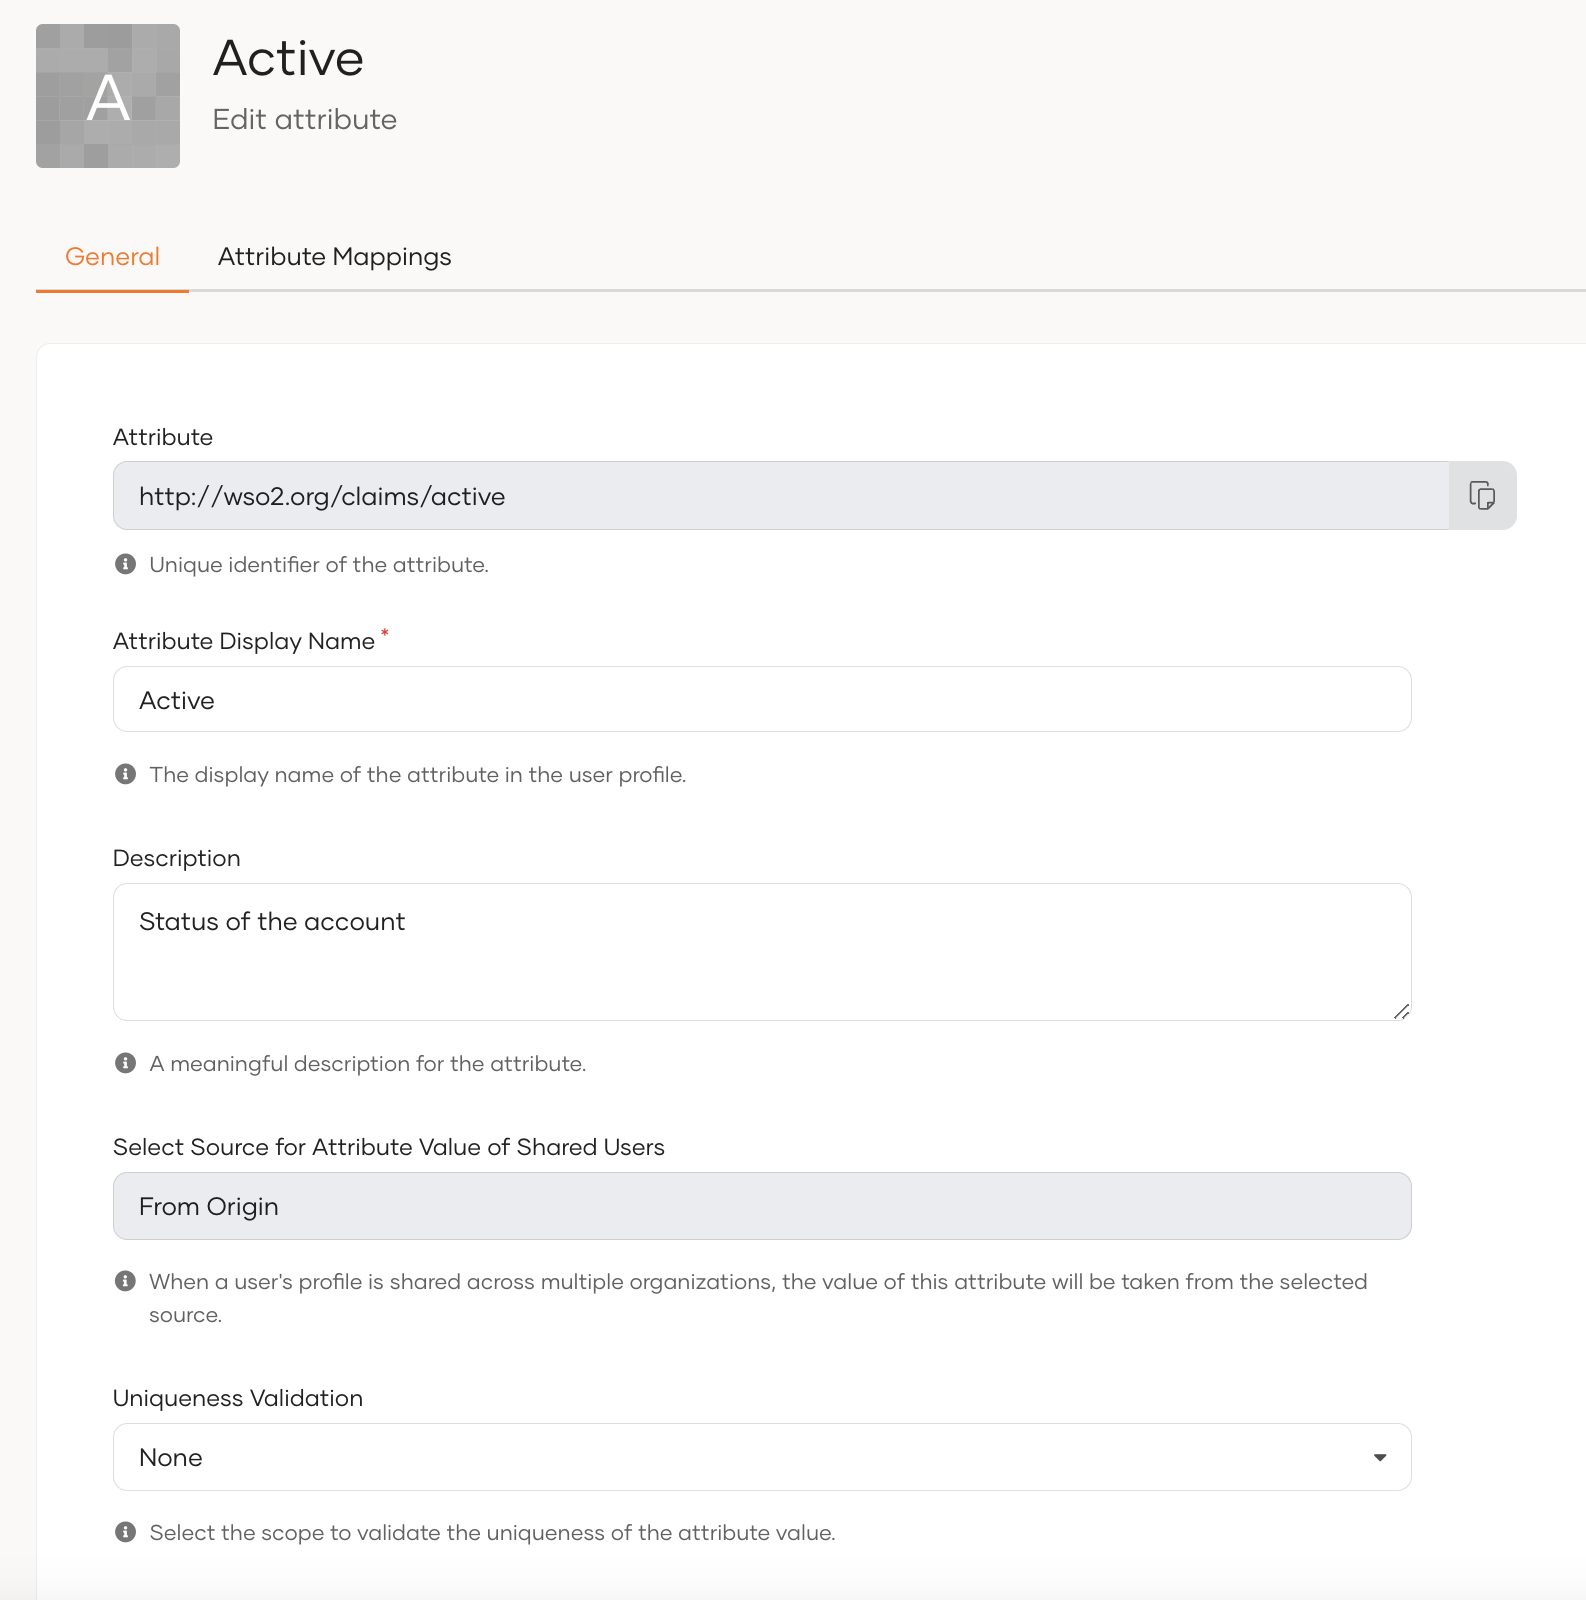
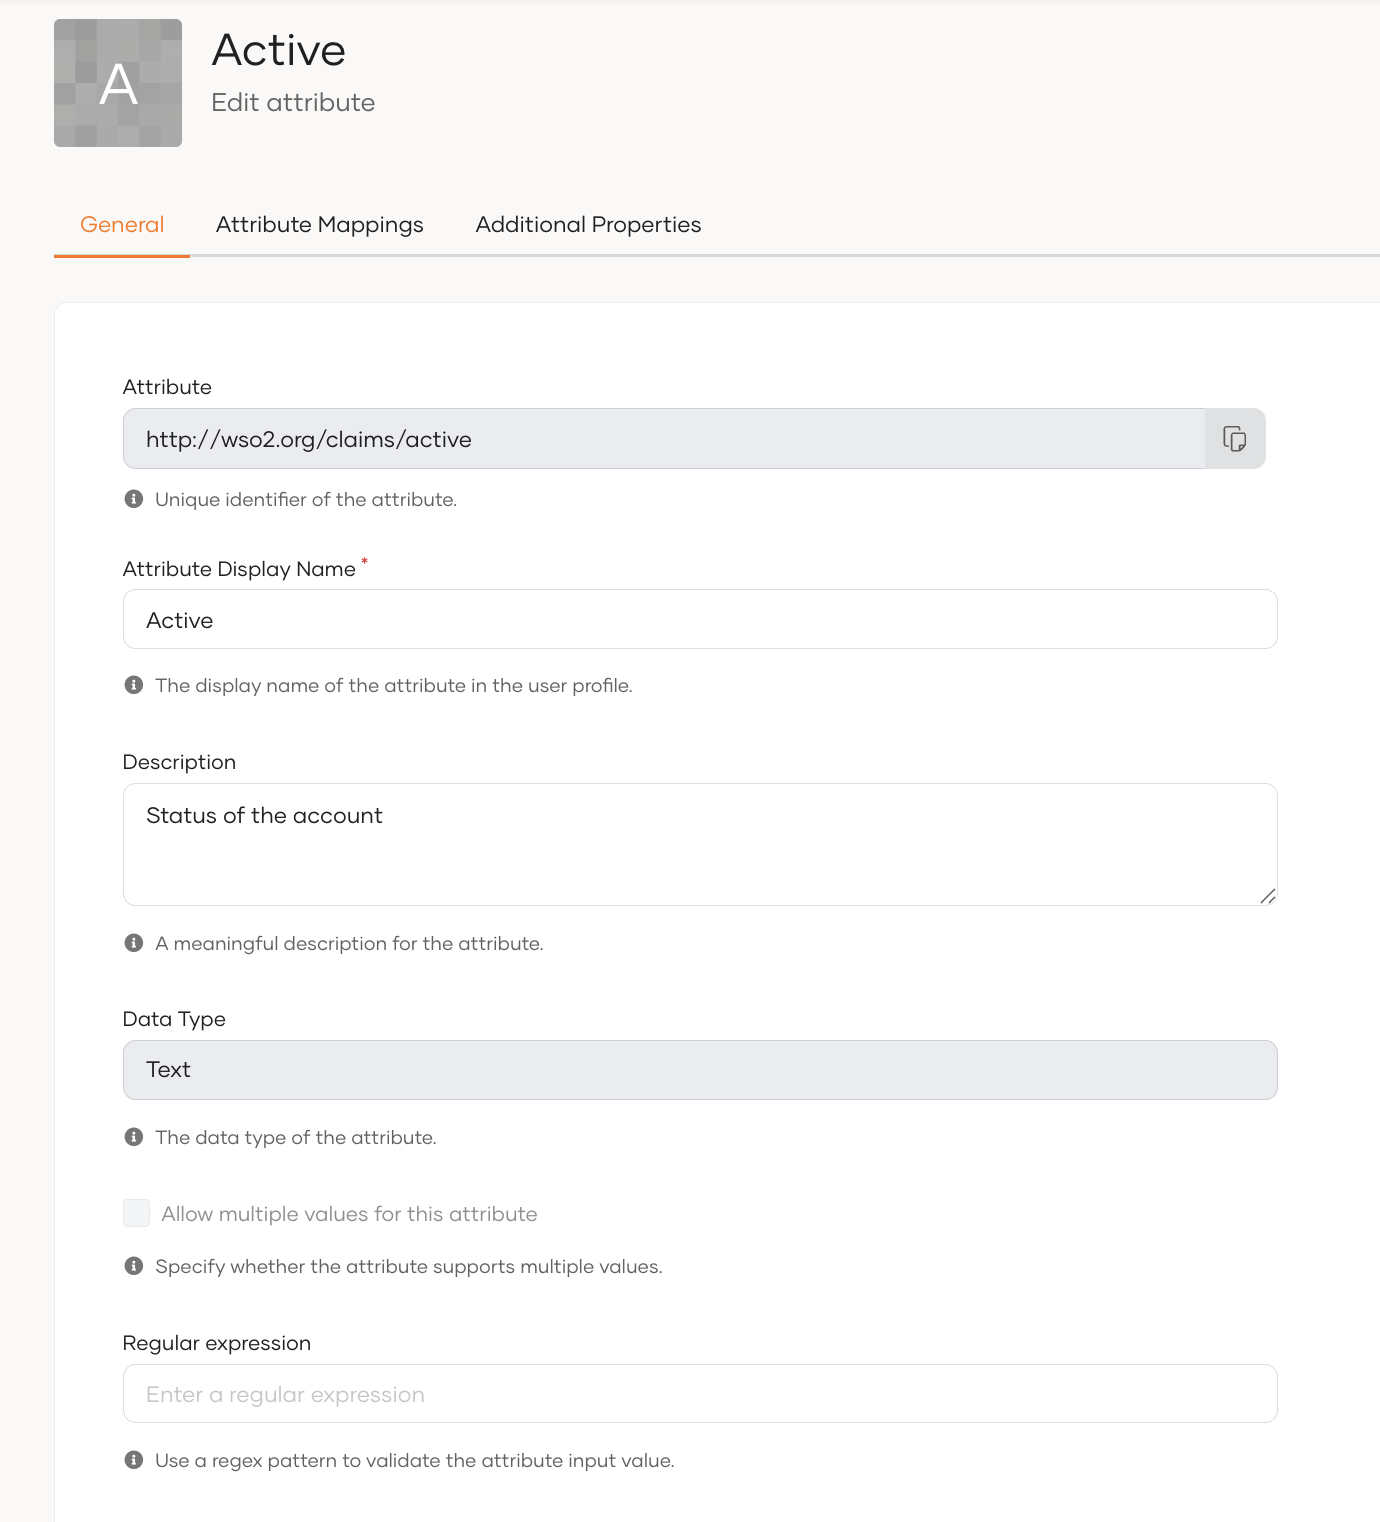
Add documentation for the data type support

diff --git a/en/includes/guides/users/attributes/manage-attributes.md b/en/includes/guides/users/attributes/manage-attributes.md
@@ -16,7 +16,9 @@ To view attributes available for your organization:
 
     ![Attributes]({{base_path}}/assets/img/guides/organization/attributes/local-attributes.png){: width="600" style="display: block; margin: 0; border: 0.3px solid lightgrey;"}
 
+
     This page displays all the attributes available in your organization.
+
 
     ![View attributes]({{base_path}}/assets/img/guides/organization/attributes/view-attributes.png){: width="600" style="display: block; margin: 0; border: 0.3px solid lightgrey;"}
 
@@ -53,8 +55,6 @@ Apart from the default attributes, you may define your own custom attributes by 
 
 4. Click **Finish**.
 
-{% if is_version != "7.0.0" %}
-
 ## Configure attributes
 
 To configure properties of user attributes:
@@ -63,10 +63,69 @@ To configure properties of user attributes:
 2. Under **Manage Attributes**, click **Attributes** to view the list of all attributes.
 3. Click **Edit** for the attribute you want to update.
 
+{% if product_name != "WSO2 Identity Server" or is_version >= "7.2.0" %}
+
     ![Edit attributes]({{base_path}}/assets/img/guides/organization/attributes/edit-attributes-general.png){: width="600" style="display: block; margin: 0; border: 0.3px solid lightgrey;"}
+
+{% else %}
+
+    ![Edit attributes]({{base_path}}/assets/img/guides/organization/attributes/edit-attributes-general.png){: width="600" style="display: block; margin: 0; border: 0.3px solid lightgrey;"}
+
+{% endif %}
 
     !!! note
         The **Attribute** field specifies the unique identifier of the attribute. It always starts with `http://wso2.org/claims`. This cannot be edited.
+
+{% if product_name != "WSO2 Identity Server" or is_version >= "7.2.0" %}
+
+4. In the **General** tab, update the following values.
+
+    <table>
+       <tbody>
+            <tr>
+                <td><b>Attribute Display Name</b></td>
+                <td>Update the display name of the attribute that will show in user profiles.</td>
+            </tr>
+            <tr>
+                <td><b>Description</b></td>
+                <td>Update the description for the attribute.</td>
+            </tr>
+            <tr>
+                <td><b>Data Type</b></td>
+                <td>Refers to the kind of value it holds, such as a string, boolean or date-time.</td>
+            </tr>
+            <tr>
+                <td><b>Multi Valued</b></td>
+                <td>Specify whether the attribute supports multiple values.</td>
+            </tr>
+            <tr>
+                <td><b>Regular expression</b></td>
+                <td>The attribute value will be validated against the regex pattern specified here.</td>
+            </tr>
+            <tr>
+                <td><b>Select Source for Attribute Value of Shared Users</b></td>
+                <td>When a user's profile is shared across multiple organizations, the value of this attribute will be taken from the selected source.</br>
+                <ul>
+                    <li><b>From Origin:</b> The attribute  value is inherited from the original organization which manages the user's profile.</li>
+                    <li><b>From Shared Profile:</b>  The attribute value is taken from the shared user profile in the respective organization.</li>
+                    <li><b>From First Found in Hierarchy:</b> The attribute value is retrieved from the first organization in the hierarchy that has assigned a non-null value to the attribute. </li>
+                </ul>
+                At the moment, you can only configure this option for custom attributes.
+            </tr>
+            <tr>
+                <td><b>Uniqueness Validation</b></td>
+                <td>Select one of the following scopes to validate attribute uniqueness:
+                    <ul>
+                        <li><b>None:</b> No validation is applied. Users can have duplicate values for the selected attribute.</li>
+                        <li><b>Within User Store:</b> Users within the same user store cannot have duplicate values for the selected attribute. However, users in other user stores may have duplicates.</li>
+                        <li><b>Across User Stores:</b> Attribute values are unique across all user stores preventing duplicates throughout the organization.</li>
+                    </ul>
+                </td>
+            </tr>
+     </tbody>
+    </table>
+
+{% elif is_version == "7.1.0" %}
 
 4. In the **General** tab, update the following values.
 
@@ -107,55 +166,7 @@ To configure properties of user attributes:
      </tbody>
     </table>
 
-5. Under **Attribute Configurations**, use the table to configure how attributes are handled for each entity.
-
-    ![Edit attributes]({{base_path}}/assets/img/guides/organization/attributes/configure-attribute-profiles.png){: width="600" style="display: block; margin: 0; border: 0.3px solid lightgrey;"}
-
-    The table contains the following entities:
-
-    - Administrator Console: User profiles as seen from the administrator's Console.
-    - End-User Profile: User profiles as seen from the users' My Account portal.
-    - Self-Registration: The form presented to users during self-registration.
-
-    For each of these entities, you can configure the following properties:
-
-    <table>
-        <tbody>
-            <tr>
-                <td><b>Display</b></td>
-                <td>If selected, the attribute is displayed in the entity.</td>
-            </tr>
-            <tr>
-                <td><b>Required</b></td>
-                <td>If selected, the entity must contain a value for this attribute.</td>
-            </tr>
-            <tr>
-                <td><b>Read-only</b></td>
-                <td>If selected, the value will be read-only for the entity and cannot be modified.</td>
-        </tr>
-        </tbody>
-    </table>
-
-!!! note
-    Using the attribute configurations, you can also configure which attributes are displayed in the user creation form when
-    [onboarding users]({{base_path}}/guides/users/manage-users/#onboard-a-single-user) in the console.
-
-    To display an attribute in the user creation form, select the **both** **Display** and **Required** checkboxes for the **Administrator Console** entity.
-
 {% else %}
-
-## Configure attributes
-
-To configure properties of user attributes:
-
-1. On the {{ product_name }} Console, go to **User Attributes & Stores** > **Attributes**.
-2. Under **Manage Attributes**, click **Attributes** to view the list of all attributes.
-3. Click **Edit** for the attribute you want to update.
-
-    ![Edit attributes]({{base_path}}/assets/img/guides/organization/attributes/edit-attributes-general.png){: width="600" style="display: block; margin: 0; border: 0.3px solid lightgrey;"}
-
-    !!! note
-        The **Attribute** field specifies the unique identifier of the attribute. It always starts with `http://wso2.org/claims`. This cannot be edited.
 
 4. In the **General** tab, update the following values.
 
@@ -187,15 +198,114 @@ To configure properties of user attributes:
             </tr>
      </tbody>
     </table>
+
 {% endif %}
 
-5. Go to the **Attribute Mappings** tab and enter the attribute from each user store that you need to map.
+{% if product_name != "WSO2 Identity Server" or is_version >= "7.2.0" %}
+
+5. Attribute Data Types.
+
+    An attribute can be of one of the following data types:
+
+    - **Text** A plain string value.
+    - **Options** A pre-defined list of selectable values.
+    - **Integer** Whole numbers (for example `1`, `42`, `-7`).
+    - **Decimal** Numbers that include decimals (for example `3.14`, `-0.5`).
+    - **Boolean** A true or false value.
+    - **DateTime** A date and time value.
+    - **Object** A structured object that can include multiple sub-attributes.
+
+    #### Options Data Type
+
+    The **Options** data type allows you to define selectable values for an attribute using Label–Value pairs, where:
+
+    - **Label** is what the user sees in the UI.
+    - **Value** is what's stored internally.
+
+    ![Options for attributes]({{base_path}}/assets/img/guides/organization/attributes/edit-attribute-options.png){: width="600" style="display: block; margin: 0; border: 0.3px solid lightgrey;"}
+
+    #### Object Data Type
+
+    If an attribute needs to hold a structured object, use the **Object** data type and configure its **sub-attributes**.
+
+    ![SubAttributes for attributes]({{base_path}}/assets/img/guides/organization/attributes/edit-addtribute-sub-attributes.png){: width="600" style="display: block; margin: 0; border: 0.3px solid lightgrey;"}
+
+    !!! note
+        The following constraints apply if there is a mapped SCIM claim for the attribute:
+
+        1. Each sub-attribute SCIM claim must start with the main attribute name followed by a dot (`.`) 
+            and a descriptive sub-attribute name.
+
+        2. You can't assign another attribute of type **Object** as a sub-attribute.
+
+6. Under **Attribute Configurations**, use the table to configure how attributes are handled for each entity.
+
+    ![Edit attributes]({{base_path}}/assets/img/guides/organization/attributes/configure-attribute-profiles.png){: width="600" style="display: block; margin: 0; border: 0.3px solid lightgrey;"}
+
+{% elif is_version == "7.1.0" %}
+
+5. Under **Attribute Configurations**, use the table to configure how attributes are handled for each entity.
+
+    ![Edit attributes]({{base_path}}/assets/img/guides/organization/attributes/configure-attribute-profiles.png){: width="600" style="display: block; margin: 0; border: 0.3px solid lightgrey;"}
+
+{% endif %}
+
+{% if product_name != "WSO2 Identity Server" or is_version >= "7.1.0" %}
+
+    The table contains the following entities:
+
+    - Administrator Console: User profiles as seen from the administrator's Console.
+    - End-User Profile: User profiles as seen from the users' My Account portal.
+    - Self-Registration: The form presented to users during self-registration.
+
+    For each of these entities, you can configure the following properties:
+
+    <table>
+        <tbody>
+            <tr>
+                <td><b>Display</b></td>
+                <td>If selected, the attribute is displayed in the entity.</td>
+            </tr>
+            <tr>
+                <td><b>Required</b></td>
+                <td>If selected, the entity must contain a value for this attribute.</td>
+            </tr>
+            <tr>
+                <td><b>Read-only</b></td>
+                <td>If selected, the value will be read-only for the entity and cannot be modified.</td>
+        </tr>
+        </tbody>
+    </table>
+
+    !!! note
+        Using the attribute configurations, you can also configure which attributes are displayed in the user creation form when
+        [onboarding users]({{base_path}}/guides/users/manage-users/#onboard-a-single-user) in the console.
+
+    To display an attribute in the user creation form, select the **both** **Display** and **Required** checkboxes for the **Administrator Console** entity.
+
+{% endif %}
+
+{% if product_name != "WSO2 Identity Server" or is_version >= "7.2.0" %}
+
+7. Go to the **Attribute Mappings** tab and enter the attribute from each user store that you need to map.
+
+{% else %}
+
+6. Go to the **Attribute Mappings** tab and enter the attribute from each user store that you need to map.
+
+{% endif %}
 
     ![Edit attribute mappings]({{base_path}}/assets/img/guides/organization/attributes/edit-attribute-mappings.png){: width="500" style="display: block; margin: 0; border: 0.3px solid lightgrey;"}
 
-{% if product_name == "WSO2 Identity Server" %}
+{% if product_name == "WSO2 Identity Server" and is_version >= "7.2.0" %}
 
-6. Optionally, you may use the **Additional Properties** tab to add additional properties that can be used when writing an extension.
+8. Optionally, you may use the **Additional Properties** tab to add additional properties that can be used when writing an extension.
+
+    ![Edit additional properties]({{base_path}}/assets/img/guides/organization/attributes/edit-attributes-additional-properties.png){: width="500" style="display: block; margin: 0; border: 0.3px solid lightgrey;"}
+
+{% elif product_name == "WSO2 Identity Server" and is_version <= "7.1.0" %}
+
+7. Optionally, you may use the **Additional Properties** tab to add additional properties that can be used when writing an extension.
 
     ![Edit additional properties]({{base_path}}/assets/img/guides/organization/attributes/edit-attributes-additional-properties.png){: width="500" style="display: block; margin: 0; border: 0.3px solid lightgrey;"}
 

diff --git a/en/includes/references/extend/user-mgt/provisioning/add-scim2-custom-user-schema-support.md b/en/includes/references/extend/user-mgt/provisioning/add-scim2-custom-user-schema-support.md
@@ -26,7 +26,7 @@
 5. Select necessary options in **Attribute Configurations** to make the field visible in user profiles and click **Update**.
    ![local-claim-attribute-configurations]({{base_path}}/assets/img/references/extend/user-mgt/provisioning/local-claim-attribute-configurations.png)
 
-{% if product_name ==  "WSO2 Identity Server" %}
+{% if (product_name == "WSO2 Identity Server" and is_version <= "7.1.0" ) %}
 !!! Note
     If you want to add any additional properties for the scim attribute in Custom schema, you can add them using **Additional Properties** in the local claim configuration.
 
@@ -68,11 +68,49 @@
         </table>
     </div>
 
+{% endif %}
+
+{% if (product_name == "WSO2 Identity Server" and is_version > "7.1.0" ) %}
+
+!!! Note
+    If you want to add any additional properties for the scim attribute in Custom schema, you can add them using **Additional Properties** in the local claim configuration.
+
+    <div style="text-align: center;">
+        <table style="margin: 0 auto;">
+            <thead>
+                <tr class="header">
+                    <th>Property Name</th>
+                    <th>Allowed Values</th>
+                </tr>
+            </thead>
+            <tbody>
+                </tr>
+                <tr class="odd">
+                    <td>caseExact</td>
+                    <td>true, false</td>
+                </tr>
+                <tr class="even">
+                    <td>mutability</td>
+                    <td>readWrite, readOnly, immutable</td>
+                </tr>
+                <tr class="odd">
+                    <td>returned</td>
+                    <td>always, default, never, request</td>
+                </tr>
+            </tbody>
+        </table>
+    </div>
+
+{% endif %}
+
+{% if product_name ==  "WSO2 Identity Server" %}
+
 !!! note
 
     - You can use the word `customClaim` or any other preferred word as the **Mapped Attribute** when using a JDBC user store because JDBC user stores will automatically create a new attribute if it does not already exist in the user store. However, if you are using LDAP or Active Directory, you will have to use an attribute that exists in the user store already.
 
     - The configuration above is valid when using the PRIMARY user store. If you have a secondary user store configured, make sure to add another attribute mapping by clicking **Add Attribute Mapping** and selecting the secondary user store.
+
 {% endif %}
 
 ### Map the custom claim
@@ -288,6 +326,7 @@ If it is not added, refer <a href="#map-the-custom-claim">Map the custom claim</
         }'
         ```
 
+{% endif %}
 
 ## How to add claims to support Complex attributes
 
@@ -316,8 +355,12 @@ Let's see if we have a **manager** complex attribute that has **address** simple
 4. Click Finish.
 5. Go to the **Edit Attribute** of the custom attribute you just created.
 6. Select necessary options in **Attribute Configurations** to make the field visible in user profiles and click **Update**.
+{% if (product_name == "WSO2 Identity Server" and is_version <= "7.1.0" ) %}
 7. Navigate to **Additional Properties** tab and enter following property and click **Update**.
     - `multiValued`: `true`
+{% else %}
+7. Check the **Allow multiple values for this attribute**.
+{% endif %}
 
 !!! Note
     SCIM 2.0 protocol mapping in Custom schema, will be created automatically with the Custom local claim creation as mentioned in the **Protocol Mapping** section in the wizard.
@@ -331,6 +374,7 @@ Let's see if we have a **manager** complex attribute that has **address** simple
     - **Attribute Display Name**: `Manager`
 4. Click Finish.
 5. Go to the **Edit Attribute** of the custom attribute you just created.
+{% if (product_name == "WSO2 Identity Server" and is_version <= "7.1.0" ) %}
 6. Navigate to **Additional Properties** tab and enter following property and click **Update**.
     - `dataType`: `complex`
     - `subAttributes`: `http://wso2.org/claims/manager.address http://wso2.org/claims/manager.roles`
@@ -342,7 +386,12 @@ Let's see if we have a **manager** complex attribute that has **address** simple
 
 !!! Note
     SCIM 2.0 protocol mapping in Custom schema, will be created automatically with the Custom local claim creation as mentioned in the **Protocol Mapping** section in the wizard.
+{% else %}
+6. Select the **Object** data type as the attribute data type.
+7. Add the `http://wso2.org/claims/manager.address` and `http://wso2.org/claims/manager.roles` as sub-attributes.
 
+    ![additional-properties-complex-attribute]({{base_path}}/assets/img/references/extend/user-mgt/provisioning/complex-claim-sub-attributes.png)
+{% endif %}
 
 ### Try it out
 
@@ -350,6 +399,8 @@ Let's see if we have a **manager** complex attribute that has **address** simple
 2. Go to the **User Profile** of the user you just created.
 3. Add values for the **Manager Address** field, **Manager Roles** field and click **Update**.
    ![complex-attribute-fields]({{base_path}}/assets/img/references/extend/user-mgt/provisioning/complex-attribute-fields.png)
+   
+{% if product_name ==  "WSO2 Identity Server" %}
 4. Retrieve the user using SCIM and ensure that the custom claim value is present.
 
     !!! abstract ""
